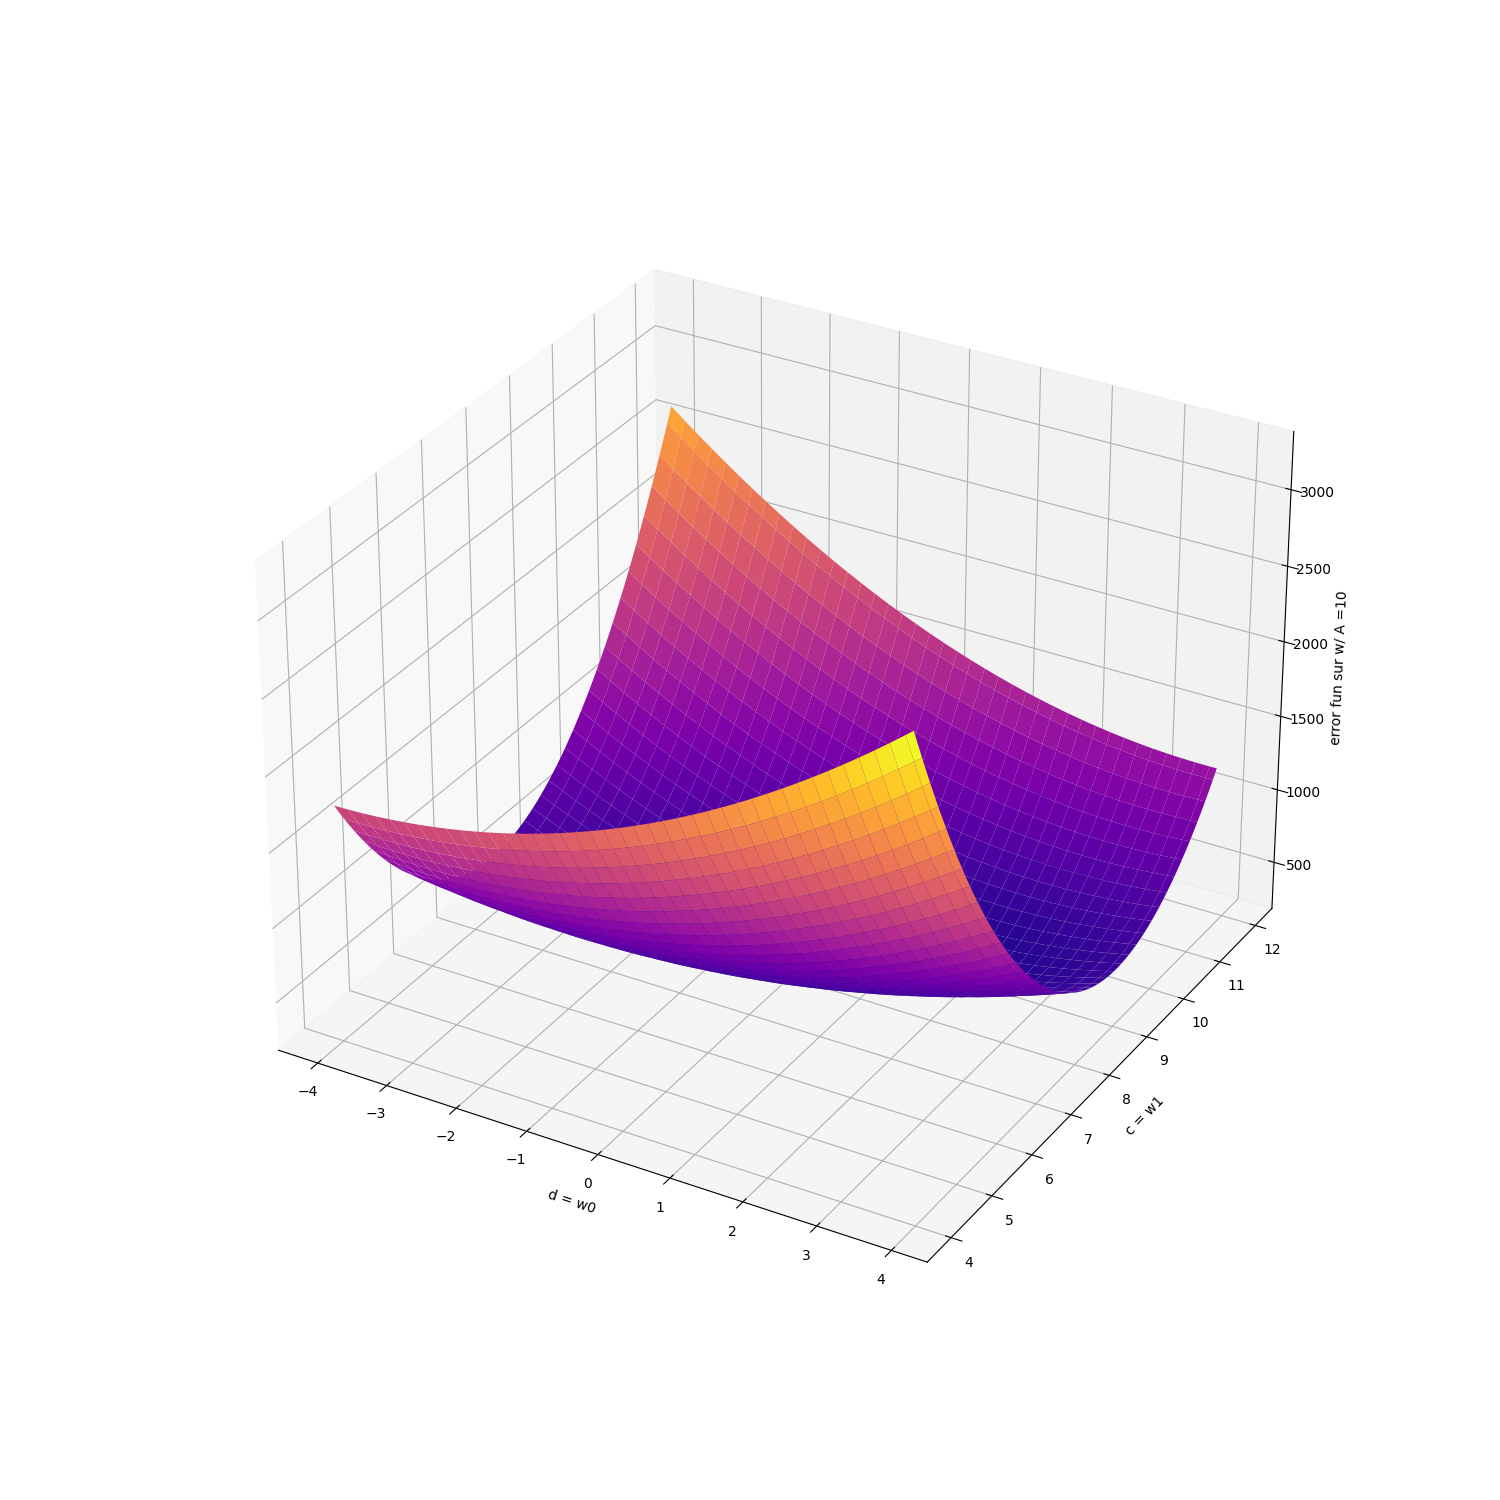
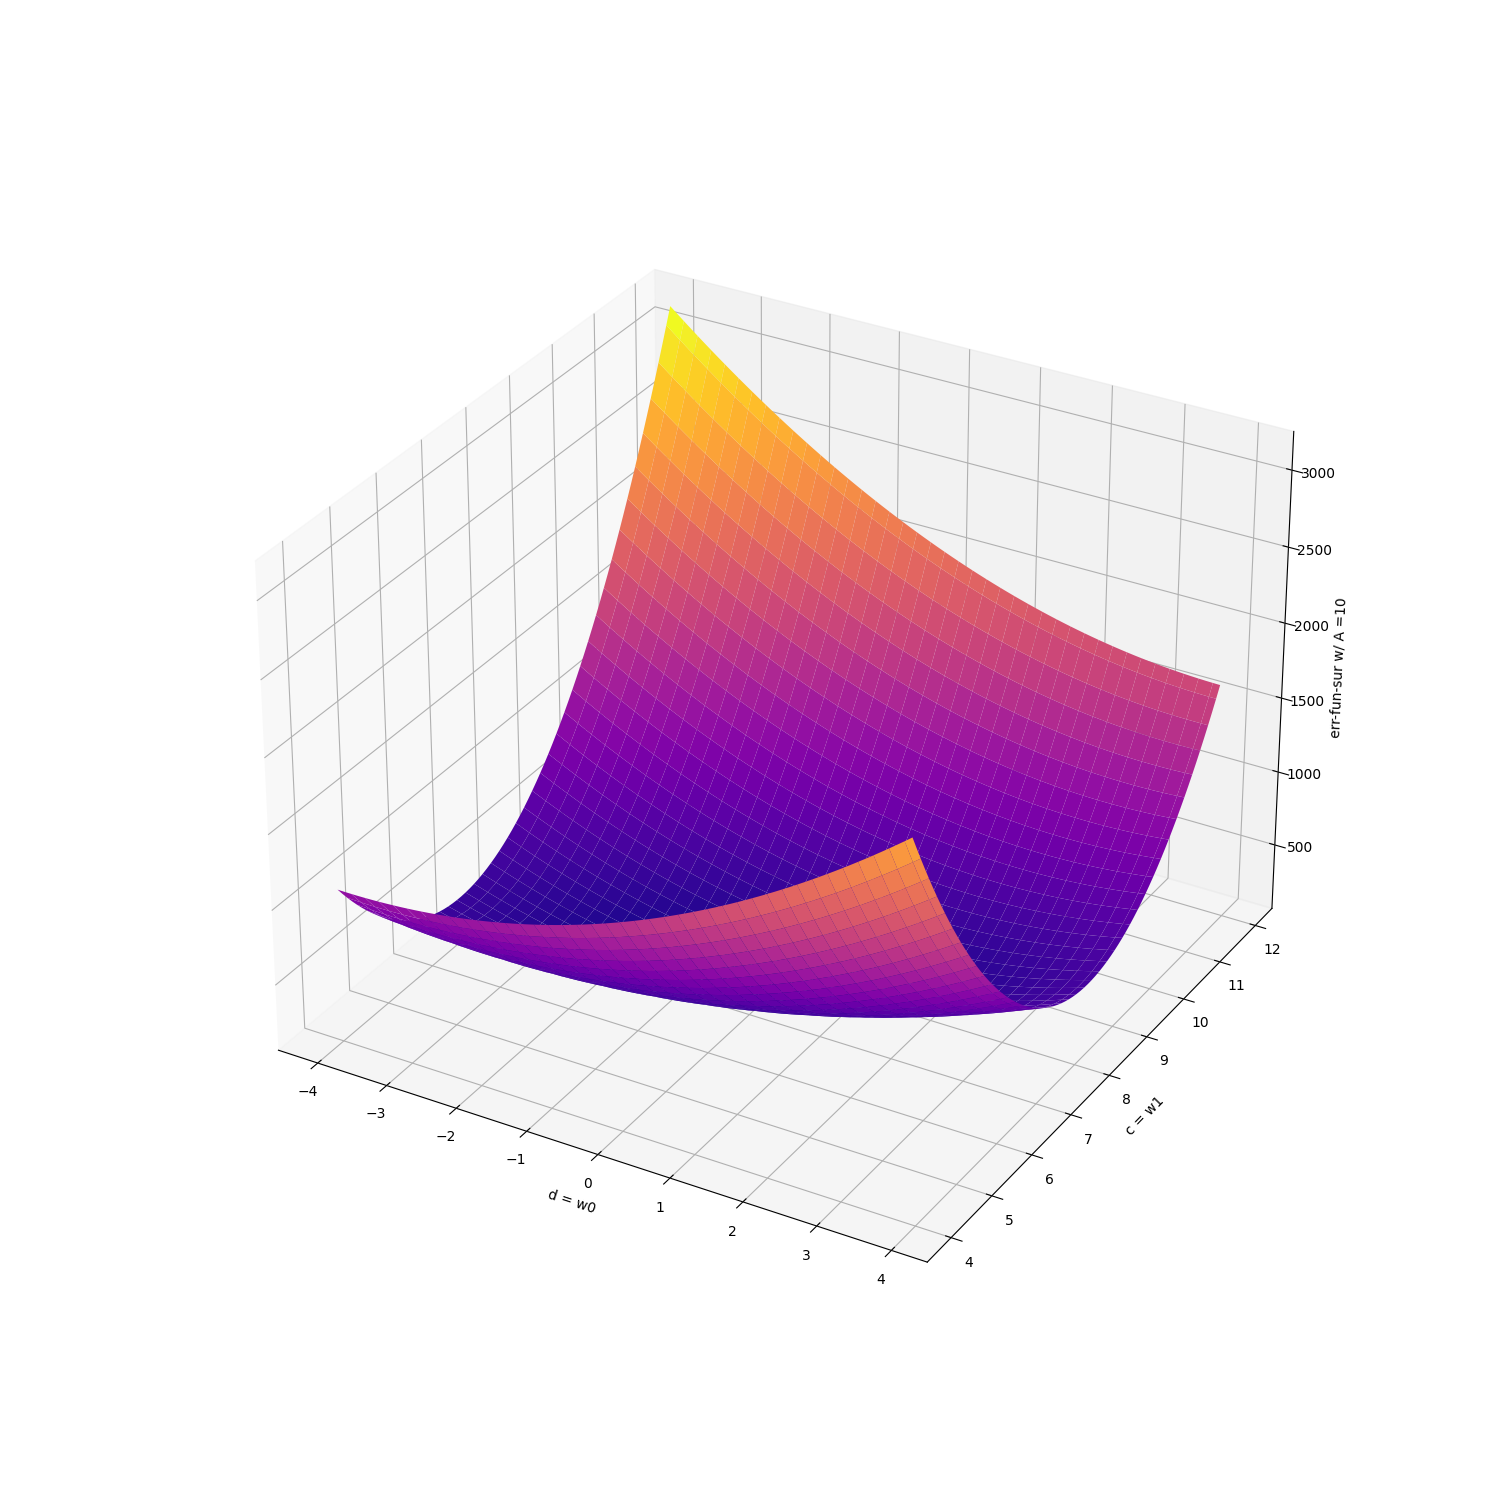
search algorithms adjusted

diff --git a/algorithms.py b/algorithms.py
@@ -1,13 +1,14 @@
 import math
+from main import D, C, E
 
 
-def convert_fun_two_arg_to_one_arg(f_two_arg, c):
+def fix_one_arg(f_two_arg, c):
 	def fun_return(d):
 		return f_two_arg([d, c])
 	return fun_return
 
 
-def passive_search(f, val_min = -2, val_max = 2, e = 0.1):
+def passive_search(f, val_min = D - 2, val_max = D + 2, e = E):
 	step = e / 2
 	n = math.ceil((val_max - val_min) / step)
 	best = [val_min + step, f(val_min + step)]
@@ -17,12 +18,12 @@ def passive_search(f, val_min = -2, val_max = 2, e = 0.1):
 	return best[0]
 
 
-def golden_section(f, val_min = 6, val_max = 10, e = 0.1):
+def golden_section(f, val_min = C - 2, val_max = C + 2, e = E):
 	coefficient = (5 ** 0.5 - 1) / 2
 	length = (val_max - val_min) * coefficient
 	c1, c2 = val_max - length, val_min + length
 	while (val_max - val_min) > e:
-		fun_w_c1_set, fun_w_c2_set = convert_fun_two_arg_to_one_arg(f, c1), convert_fun_two_arg_to_one_arg(f, c2)
+		fun_w_c1_set, fun_w_c2_set = fix_one_arg(f, c1), fix_one_arg(f, c2)
 		d_min_w_c1, d_min_w_c2 = passive_search(fun_w_c1_set), passive_search(fun_w_c2_set)
 		if f([d_min_w_c1, c1]) < f([d_min_w_c2, c2]):
 			val_max = c2
@@ -33,6 +34,6 @@ def golden_section(f, val_min = 6, val_max = 10, e = 0.1):
 			length = (val_max - val_min) * coefficient
 			c1 = val_max - length
 	c = val_min + (val_max - val_min) / 2
-	function_with_c_set = convert_fun_two_arg_to_one_arg(f, c)
-	ws = [passive_search(function_with_c_set, -4, 4), c]
+	function_with_c_set = fix_one_arg(f, c)
+	ws = [passive_search(function_with_c_set), c]
 	return [ws, f(ws)]

diff --git a/main.py b/main.py
@@ -5,6 +5,7 @@ import algorithms as alg
 
 D = 0
 C = 8
+E = 0.001
 
 
 def fun(x, ws):
@@ -17,7 +18,7 @@ def fun_by_weights_fun(fun_frame, ws):
 	return fun_by_weights
 
 
-def rf(x):
+def fun_ref(x):
 	return fun_by_weights_fun(fun, [D, C])(x)
 
 
@@ -52,27 +53,22 @@ def conduct_experiment(rf, a, b, N, A):
 	plt.add_dots_to_plot(mpl, dots)
 	mpl.legend()
 	mpl.show()
-	print(f'A = {A}')
-	print(gs_search[0])
-	print(coefficients)
 	with open('results.txt', 'a') as file:
 		file.write(f'experiment w/ A = {A}\n')
 		file.write(f'golden-passive coeffs: {gs_search[0]}\n')
 		file.write(f'lowest squares method coeffs: {coefficients}\n\n')
+	plt.graph(f_args_from_list_to_positional(error_fun), -4, 4, 4, 12, f'err-fun-sur w/ A ={A}')
 	return [dots, coefficients, error_fun, alg.golden_section(error_fun)]
 
 
 def main():
-	a, b, N, A = -4, 2, 24, 10
+	a, b, N, A1, A2 = -4, 2, 24, 10, 0
 
 	with open('results.txt', 'w') as file:
-		file.write(f'data:\nd = w0 = {D}\nc = w1 = {C}\n\n')
+		file.write(f'data given:\nd = w0 = {D}\nc = w1 = {C}\n\n')
 
-	noise_on = conduct_experiment(rf, a, b, N, A)
-	noise_off = conduct_experiment(rf, a, b, N, 0)
-
-	plt.graph(f_args_from_list_to_positional(noise_on[2]), -4, 4, 4, 12, f'error fun sur w/ A ={A}')
-	plt.graph(f_args_from_list_to_positional(noise_off[2]), -4, 4, 4, 12, 'error fun sur w/ A = 0')
+	conduct_experiment(fun_ref, a, b, N, A1)
+	conduct_experiment(fun_ref, a, b, N, A2)
 
 
 if __name__ == '__main__':
